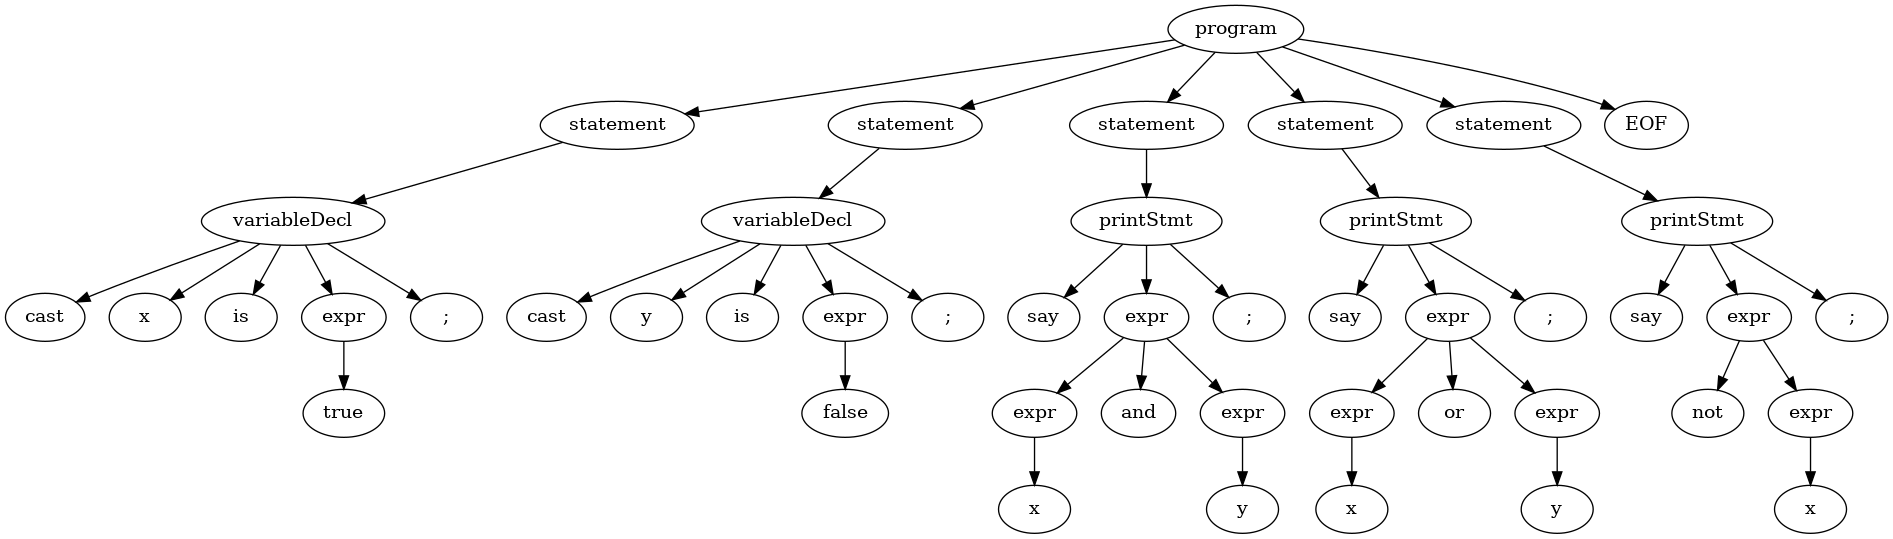
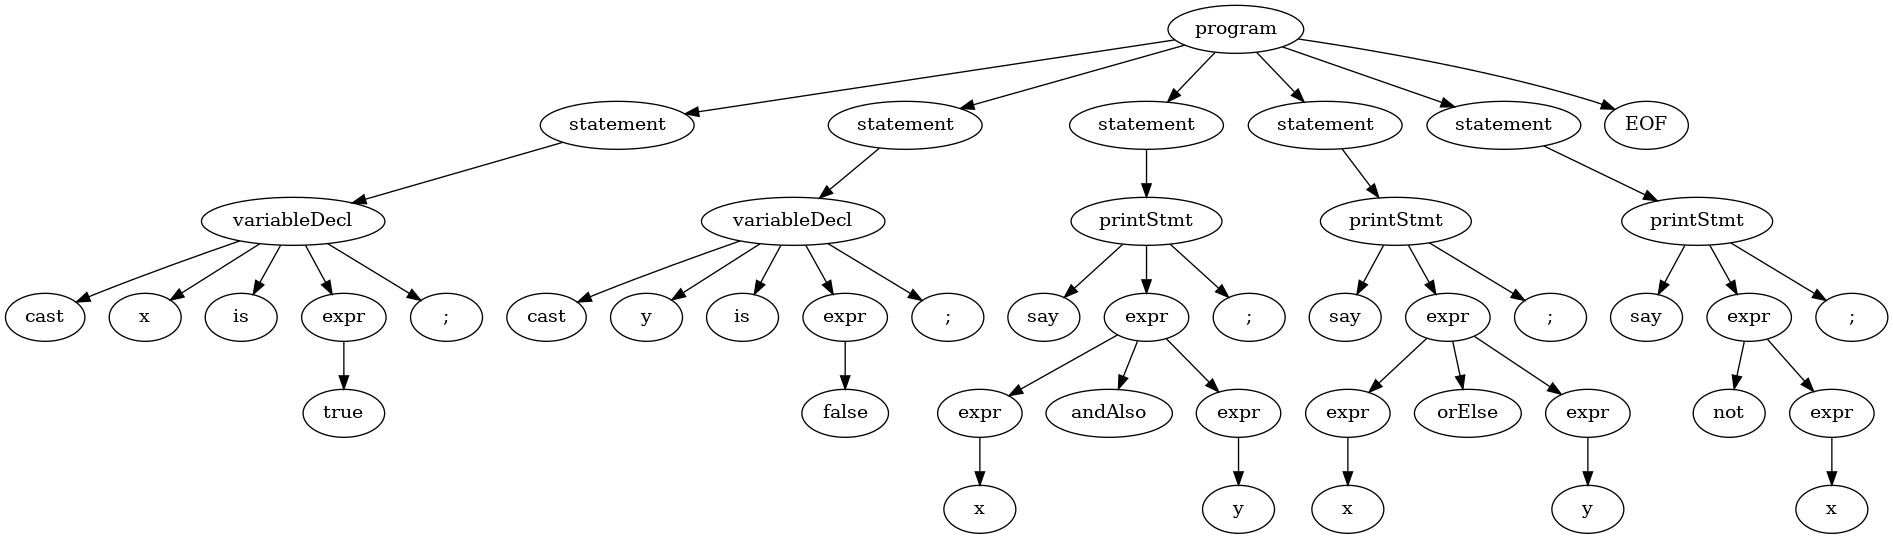
Added Enhansed boolean support

diff --git a/src/mlangLexer.py b/src/mlangLexer.py
@@ -10,38 +10,41 @@ else:
 
 def serializedATN():
     return [
-        4,0,15,94,6,-1,2,0,7,0,2,1,7,1,2,2,7,2,2,3,7,3,2,4,7,4,2,5,7,5,2,
-        6,7,6,2,7,7,7,2,8,7,8,2,9,7,9,2,10,7,10,2,11,7,11,2,12,7,12,2,13,
-        7,13,2,14,7,14,1,0,1,0,1,0,1,0,1,0,1,1,1,1,1,1,1,2,1,2,1,3,1,3,1,
-        3,1,3,1,4,1,4,1,5,1,5,1,6,1,6,1,7,1,7,1,8,1,8,1,8,1,8,1,9,1,9,1,
-        9,1,10,1,10,1,10,1,10,1,11,1,11,1,11,1,11,1,11,1,11,1,11,1,11,1,
-        11,3,11,74,8,11,1,12,1,12,5,12,78,8,12,10,12,12,12,81,9,12,1,13,
-        4,13,84,8,13,11,13,12,13,85,1,14,4,14,89,8,14,11,14,12,14,90,1,14,
-        1,14,0,0,15,1,1,3,2,5,3,7,4,9,5,11,6,13,7,15,8,17,9,19,10,21,11,
-        23,12,25,13,27,14,29,15,1,0,4,3,0,65,90,95,95,97,122,4,0,48,57,65,
-        90,95,95,97,122,1,0,48,57,3,0,9,10,13,13,32,32,97,0,1,1,0,0,0,0,
-        3,1,0,0,0,0,5,1,0,0,0,0,7,1,0,0,0,0,9,1,0,0,0,0,11,1,0,0,0,0,13,
-        1,0,0,0,0,15,1,0,0,0,0,17,1,0,0,0,0,19,1,0,0,0,0,21,1,0,0,0,0,23,
-        1,0,0,0,0,25,1,0,0,0,0,27,1,0,0,0,0,29,1,0,0,0,1,31,1,0,0,0,3,36,
-        1,0,0,0,5,39,1,0,0,0,7,41,1,0,0,0,9,45,1,0,0,0,11,47,1,0,0,0,13,
-        49,1,0,0,0,15,51,1,0,0,0,17,53,1,0,0,0,19,57,1,0,0,0,21,60,1,0,0,
-        0,23,73,1,0,0,0,25,75,1,0,0,0,27,83,1,0,0,0,29,88,1,0,0,0,31,32,
-        5,99,0,0,32,33,5,97,0,0,33,34,5,115,0,0,34,35,5,116,0,0,35,2,1,0,
-        0,0,36,37,5,105,0,0,37,38,5,115,0,0,38,4,1,0,0,0,39,40,5,59,0,0,
-        40,6,1,0,0,0,41,42,5,115,0,0,42,43,5,97,0,0,43,44,5,121,0,0,44,8,
-        1,0,0,0,45,46,5,42,0,0,46,10,1,0,0,0,47,48,5,47,0,0,48,12,1,0,0,
-        0,49,50,5,43,0,0,50,14,1,0,0,0,51,52,5,45,0,0,52,16,1,0,0,0,53,54,
-        5,97,0,0,54,55,5,110,0,0,55,56,5,100,0,0,56,18,1,0,0,0,57,58,5,111,
-        0,0,58,59,5,114,0,0,59,20,1,0,0,0,60,61,5,110,0,0,61,62,5,111,0,
-        0,62,63,5,116,0,0,63,22,1,0,0,0,64,65,5,116,0,0,65,66,5,114,0,0,
-        66,67,5,117,0,0,67,74,5,101,0,0,68,69,5,102,0,0,69,70,5,97,0,0,70,
-        71,5,108,0,0,71,72,5,115,0,0,72,74,5,101,0,0,73,64,1,0,0,0,73,68,
-        1,0,0,0,74,24,1,0,0,0,75,79,7,0,0,0,76,78,7,1,0,0,77,76,1,0,0,0,
-        78,81,1,0,0,0,79,77,1,0,0,0,79,80,1,0,0,0,80,26,1,0,0,0,81,79,1,
-        0,0,0,82,84,7,2,0,0,83,82,1,0,0,0,84,85,1,0,0,0,85,83,1,0,0,0,85,
-        86,1,0,0,0,86,28,1,0,0,0,87,89,7,3,0,0,88,87,1,0,0,0,89,90,1,0,0,
-        0,90,88,1,0,0,0,90,91,1,0,0,0,91,92,1,0,0,0,92,93,6,14,0,0,93,30,
-        1,0,0,0,5,0,73,79,85,90,1,6,0,0
+        4,0,15,102,6,-1,2,0,7,0,2,1,7,1,2,2,7,2,2,3,7,3,2,4,7,4,2,5,7,5,
+        2,6,7,6,2,7,7,7,2,8,7,8,2,9,7,9,2,10,7,10,2,11,7,11,2,12,7,12,2,
+        13,7,13,2,14,7,14,1,0,1,0,1,0,1,0,1,0,1,1,1,1,1,1,1,2,1,2,1,3,1,
+        3,1,3,1,3,1,4,1,4,1,5,1,5,1,6,1,6,1,7,1,7,1,8,1,8,1,8,1,8,1,8,1,
+        8,1,8,1,8,1,9,1,9,1,9,1,9,1,9,1,9,1,9,1,10,1,10,1,10,1,10,1,11,1,
+        11,1,11,1,11,1,11,1,11,1,11,1,11,1,11,3,11,82,8,11,1,12,1,12,5,12,
+        86,8,12,10,12,12,12,89,9,12,1,13,4,13,92,8,13,11,13,12,13,93,1,14,
+        4,14,97,8,14,11,14,12,14,98,1,14,1,14,0,0,15,1,1,3,2,5,3,7,4,9,5,
+        11,6,13,7,15,8,17,9,19,10,21,11,23,12,25,13,27,14,29,15,1,0,4,3,
+        0,65,90,95,95,97,122,4,0,48,57,65,90,95,95,97,122,1,0,48,57,3,0,
+        9,10,13,13,32,32,105,0,1,1,0,0,0,0,3,1,0,0,0,0,5,1,0,0,0,0,7,1,0,
+        0,0,0,9,1,0,0,0,0,11,1,0,0,0,0,13,1,0,0,0,0,15,1,0,0,0,0,17,1,0,
+        0,0,0,19,1,0,0,0,0,21,1,0,0,0,0,23,1,0,0,0,0,25,1,0,0,0,0,27,1,0,
+        0,0,0,29,1,0,0,0,1,31,1,0,0,0,3,36,1,0,0,0,5,39,1,0,0,0,7,41,1,0,
+        0,0,9,45,1,0,0,0,11,47,1,0,0,0,13,49,1,0,0,0,15,51,1,0,0,0,17,53,
+        1,0,0,0,19,61,1,0,0,0,21,68,1,0,0,0,23,81,1,0,0,0,25,83,1,0,0,0,
+        27,91,1,0,0,0,29,96,1,0,0,0,31,32,5,99,0,0,32,33,5,97,0,0,33,34,
+        5,115,0,0,34,35,5,116,0,0,35,2,1,0,0,0,36,37,5,105,0,0,37,38,5,115,
+        0,0,38,4,1,0,0,0,39,40,5,59,0,0,40,6,1,0,0,0,41,42,5,115,0,0,42,
+        43,5,97,0,0,43,44,5,121,0,0,44,8,1,0,0,0,45,46,5,42,0,0,46,10,1,
+        0,0,0,47,48,5,47,0,0,48,12,1,0,0,0,49,50,5,43,0,0,50,14,1,0,0,0,
+        51,52,5,45,0,0,52,16,1,0,0,0,53,54,5,97,0,0,54,55,5,110,0,0,55,56,
+        5,100,0,0,56,57,5,65,0,0,57,58,5,108,0,0,58,59,5,115,0,0,59,60,5,
+        111,0,0,60,18,1,0,0,0,61,62,5,111,0,0,62,63,5,114,0,0,63,64,5,69,
+        0,0,64,65,5,108,0,0,65,66,5,115,0,0,66,67,5,101,0,0,67,20,1,0,0,
+        0,68,69,5,110,0,0,69,70,5,111,0,0,70,71,5,116,0,0,71,22,1,0,0,0,
+        72,73,5,116,0,0,73,74,5,114,0,0,74,75,5,117,0,0,75,82,5,101,0,0,
+        76,77,5,102,0,0,77,78,5,97,0,0,78,79,5,108,0,0,79,80,5,115,0,0,80,
+        82,5,101,0,0,81,72,1,0,0,0,81,76,1,0,0,0,82,24,1,0,0,0,83,87,7,0,
+        0,0,84,86,7,1,0,0,85,84,1,0,0,0,86,89,1,0,0,0,87,85,1,0,0,0,87,88,
+        1,0,0,0,88,26,1,0,0,0,89,87,1,0,0,0,90,92,7,2,0,0,91,90,1,0,0,0,
+        92,93,1,0,0,0,93,91,1,0,0,0,93,94,1,0,0,0,94,28,1,0,0,0,95,97,7,
+        3,0,0,96,95,1,0,0,0,97,98,1,0,0,0,98,96,1,0,0,0,98,99,1,0,0,0,99,
+        100,1,0,0,0,100,101,6,14,0,0,101,30,1,0,0,0,5,0,81,87,93,98,1,6,
+        0,0
     ]
 
 class mlangLexer(Lexer):
@@ -72,7 +75,7 @@ class mlangLexer(Lexer):
 
     literalNames = [ "<INVALID>",
             "'cast'", "'is'", "';'", "'say'", "'*'", "'/'", "'+'", "'-'", 
-            "'and'", "'or'", "'not'" ]
+            "'andAlso'", "'orElse'", "'not'" ]
 
     symbolicNames = [ "<INVALID>",
             "BOOL", "ID", "INT", "WS" ]

diff --git a/src/mlangInterpreter.py b/src/mlangInterpreter.py
@@ -37,8 +37,8 @@ class mlangInterpreter(mlangVisitor):
             if ctx.op.text == '-': return left - right
             if ctx.op.text == '*': return left * right
             if ctx.op.text == '/': return left // right
-            if ctx.op.text == 'and': return left and right
-            if ctx.op.text == 'or': return left or right
+            if ctx.op.text == 'andAlso': return left and right
+            if ctx.op.text == 'orElse': return left or right
         elif ctx.getChild(0).getText() == 'not':
             value = self.visit(ctx.expr(0))
             return not value

diff --git a/src/mlangParser.py b/src/mlangParser.py
@@ -43,7 +43,7 @@ class mlangParser ( Parser ):
     sharedContextCache = PredictionContextCache()
 
     literalNames = [ "<INVALID>", "'cast'", "'is'", "';'", "'say'", "'*'", 
-                     "'/'", "'+'", "'-'", "'and'", "'or'", "'not'" ]
+                     "'/'", "'+'", "'-'", "'andAlso'", "'orElse'", "'not'" ]
 
     symbolicNames = [ "<INVALID>", "<INVALID>", "<INVALID>", "<INVALID>", 
                       "<INVALID>", "<INVALID>", "<INVALID>", "<INVALID>", 
